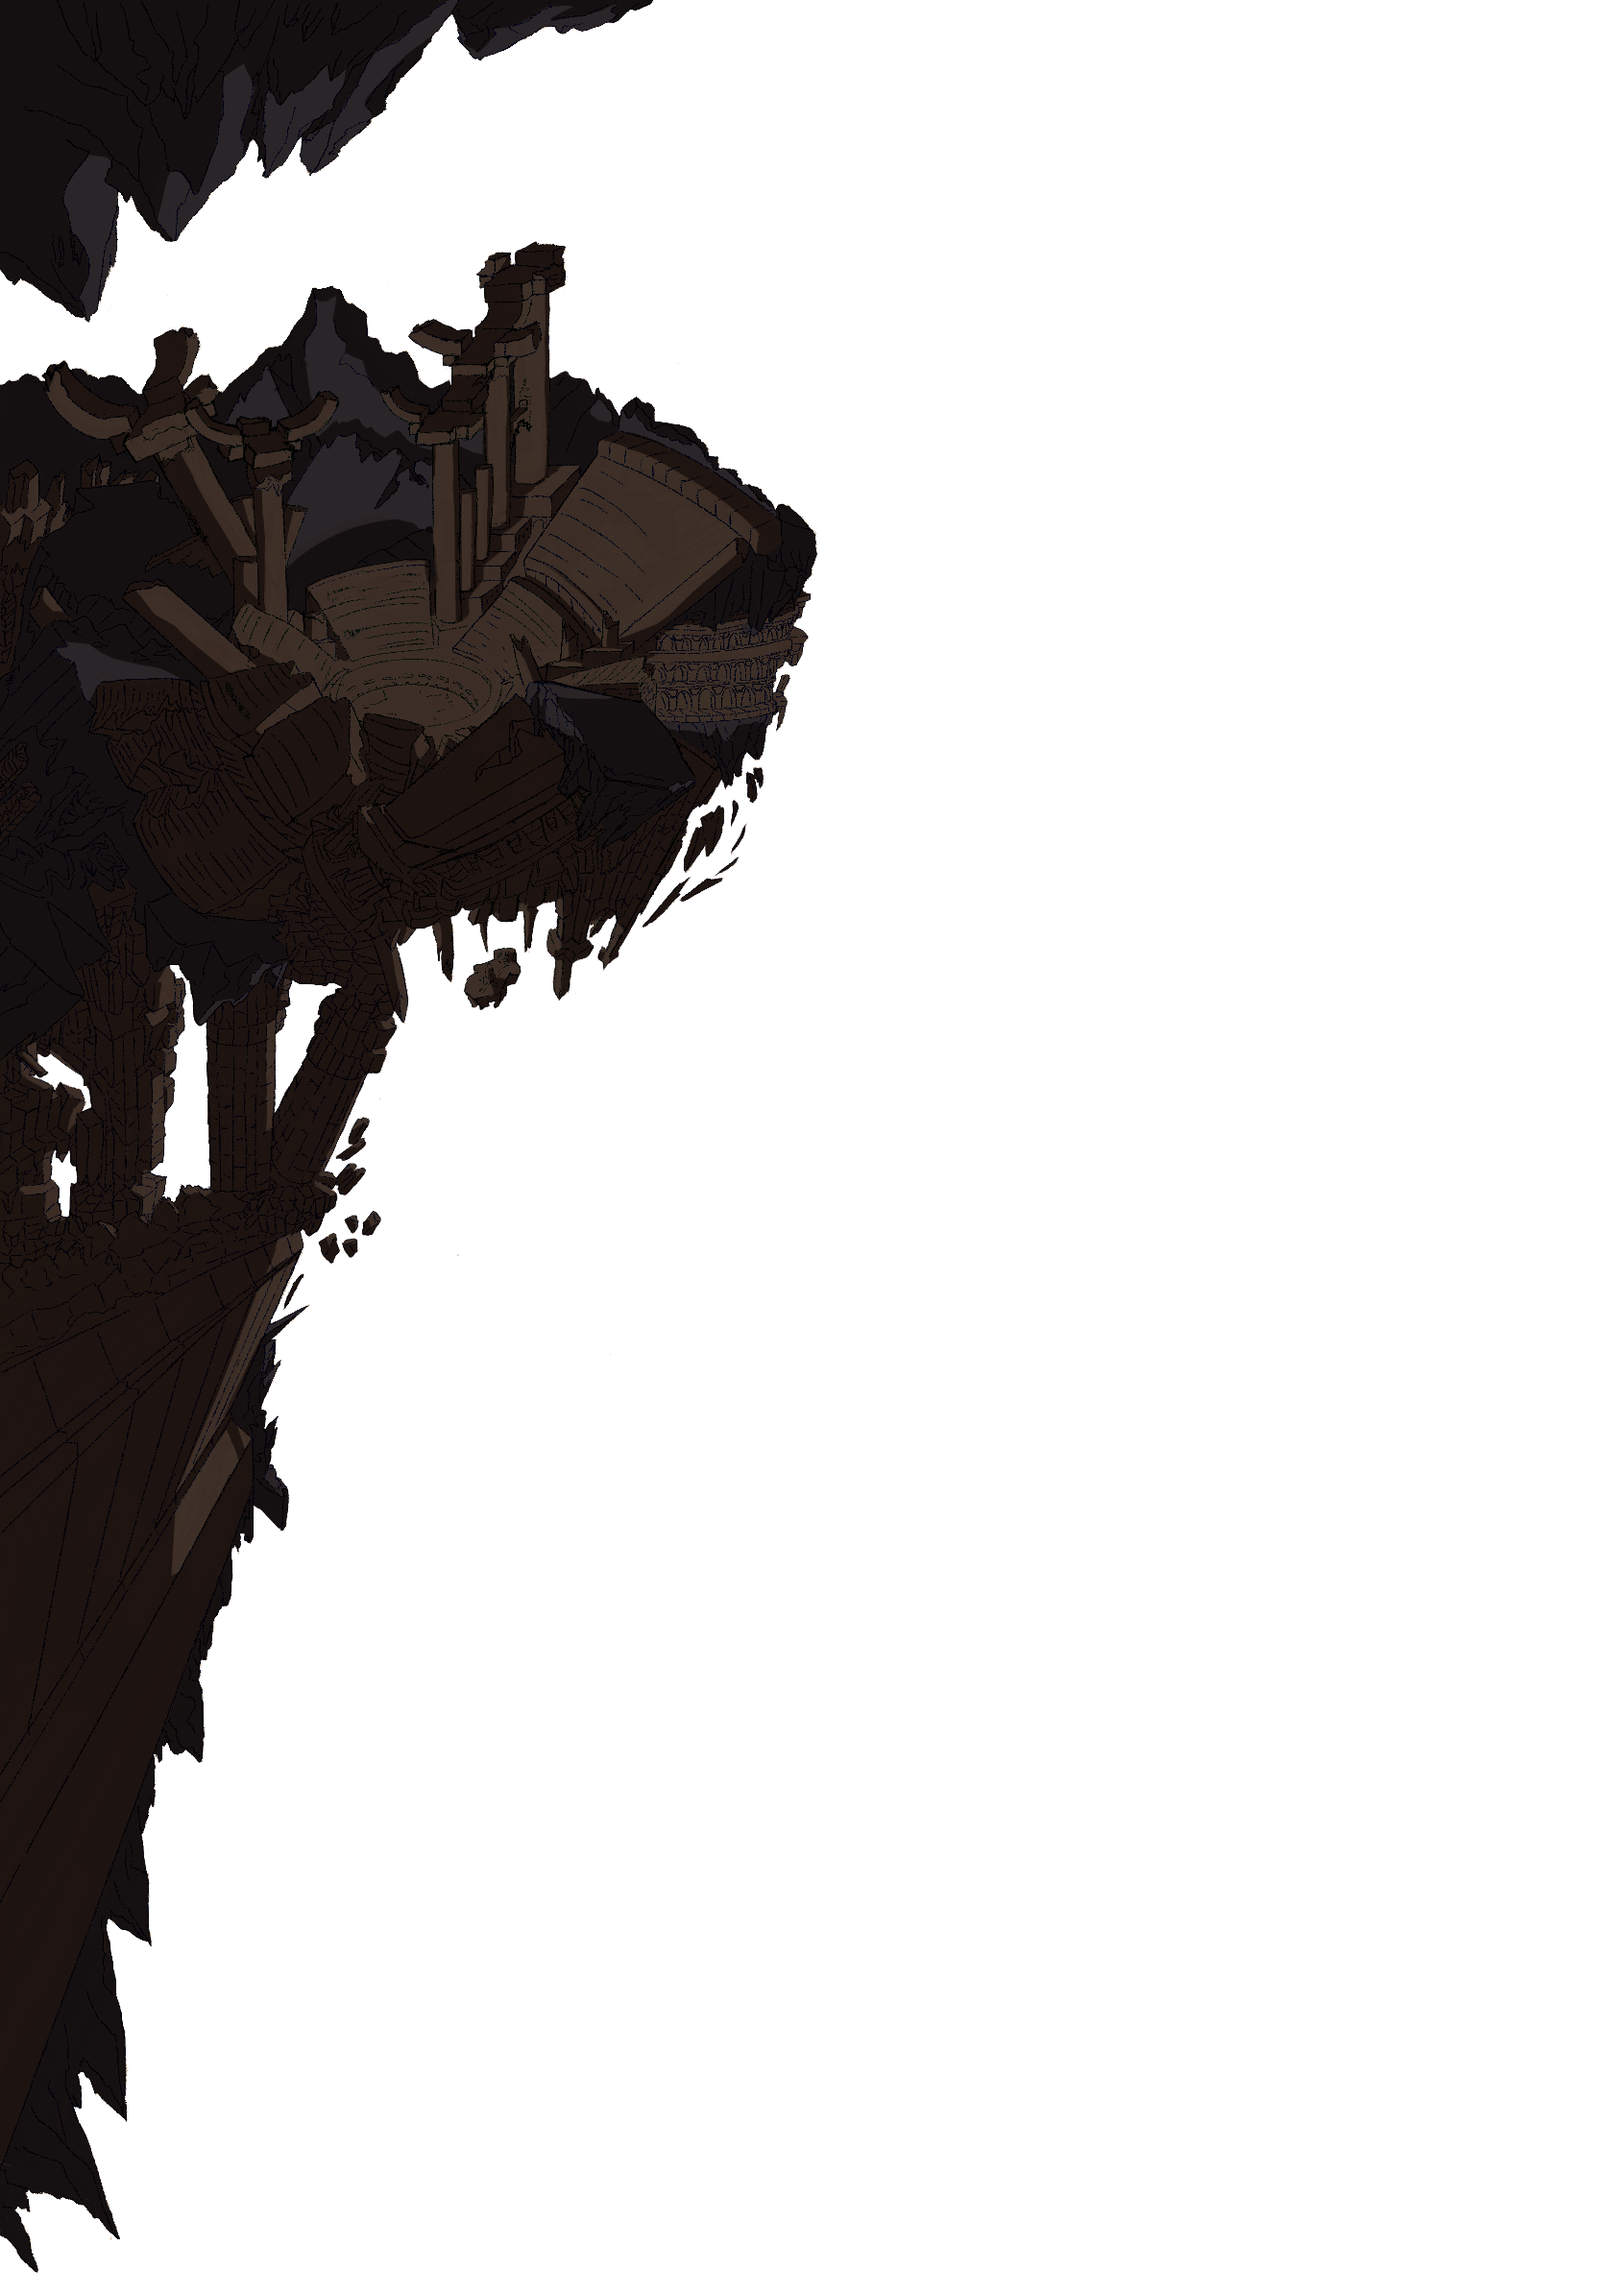
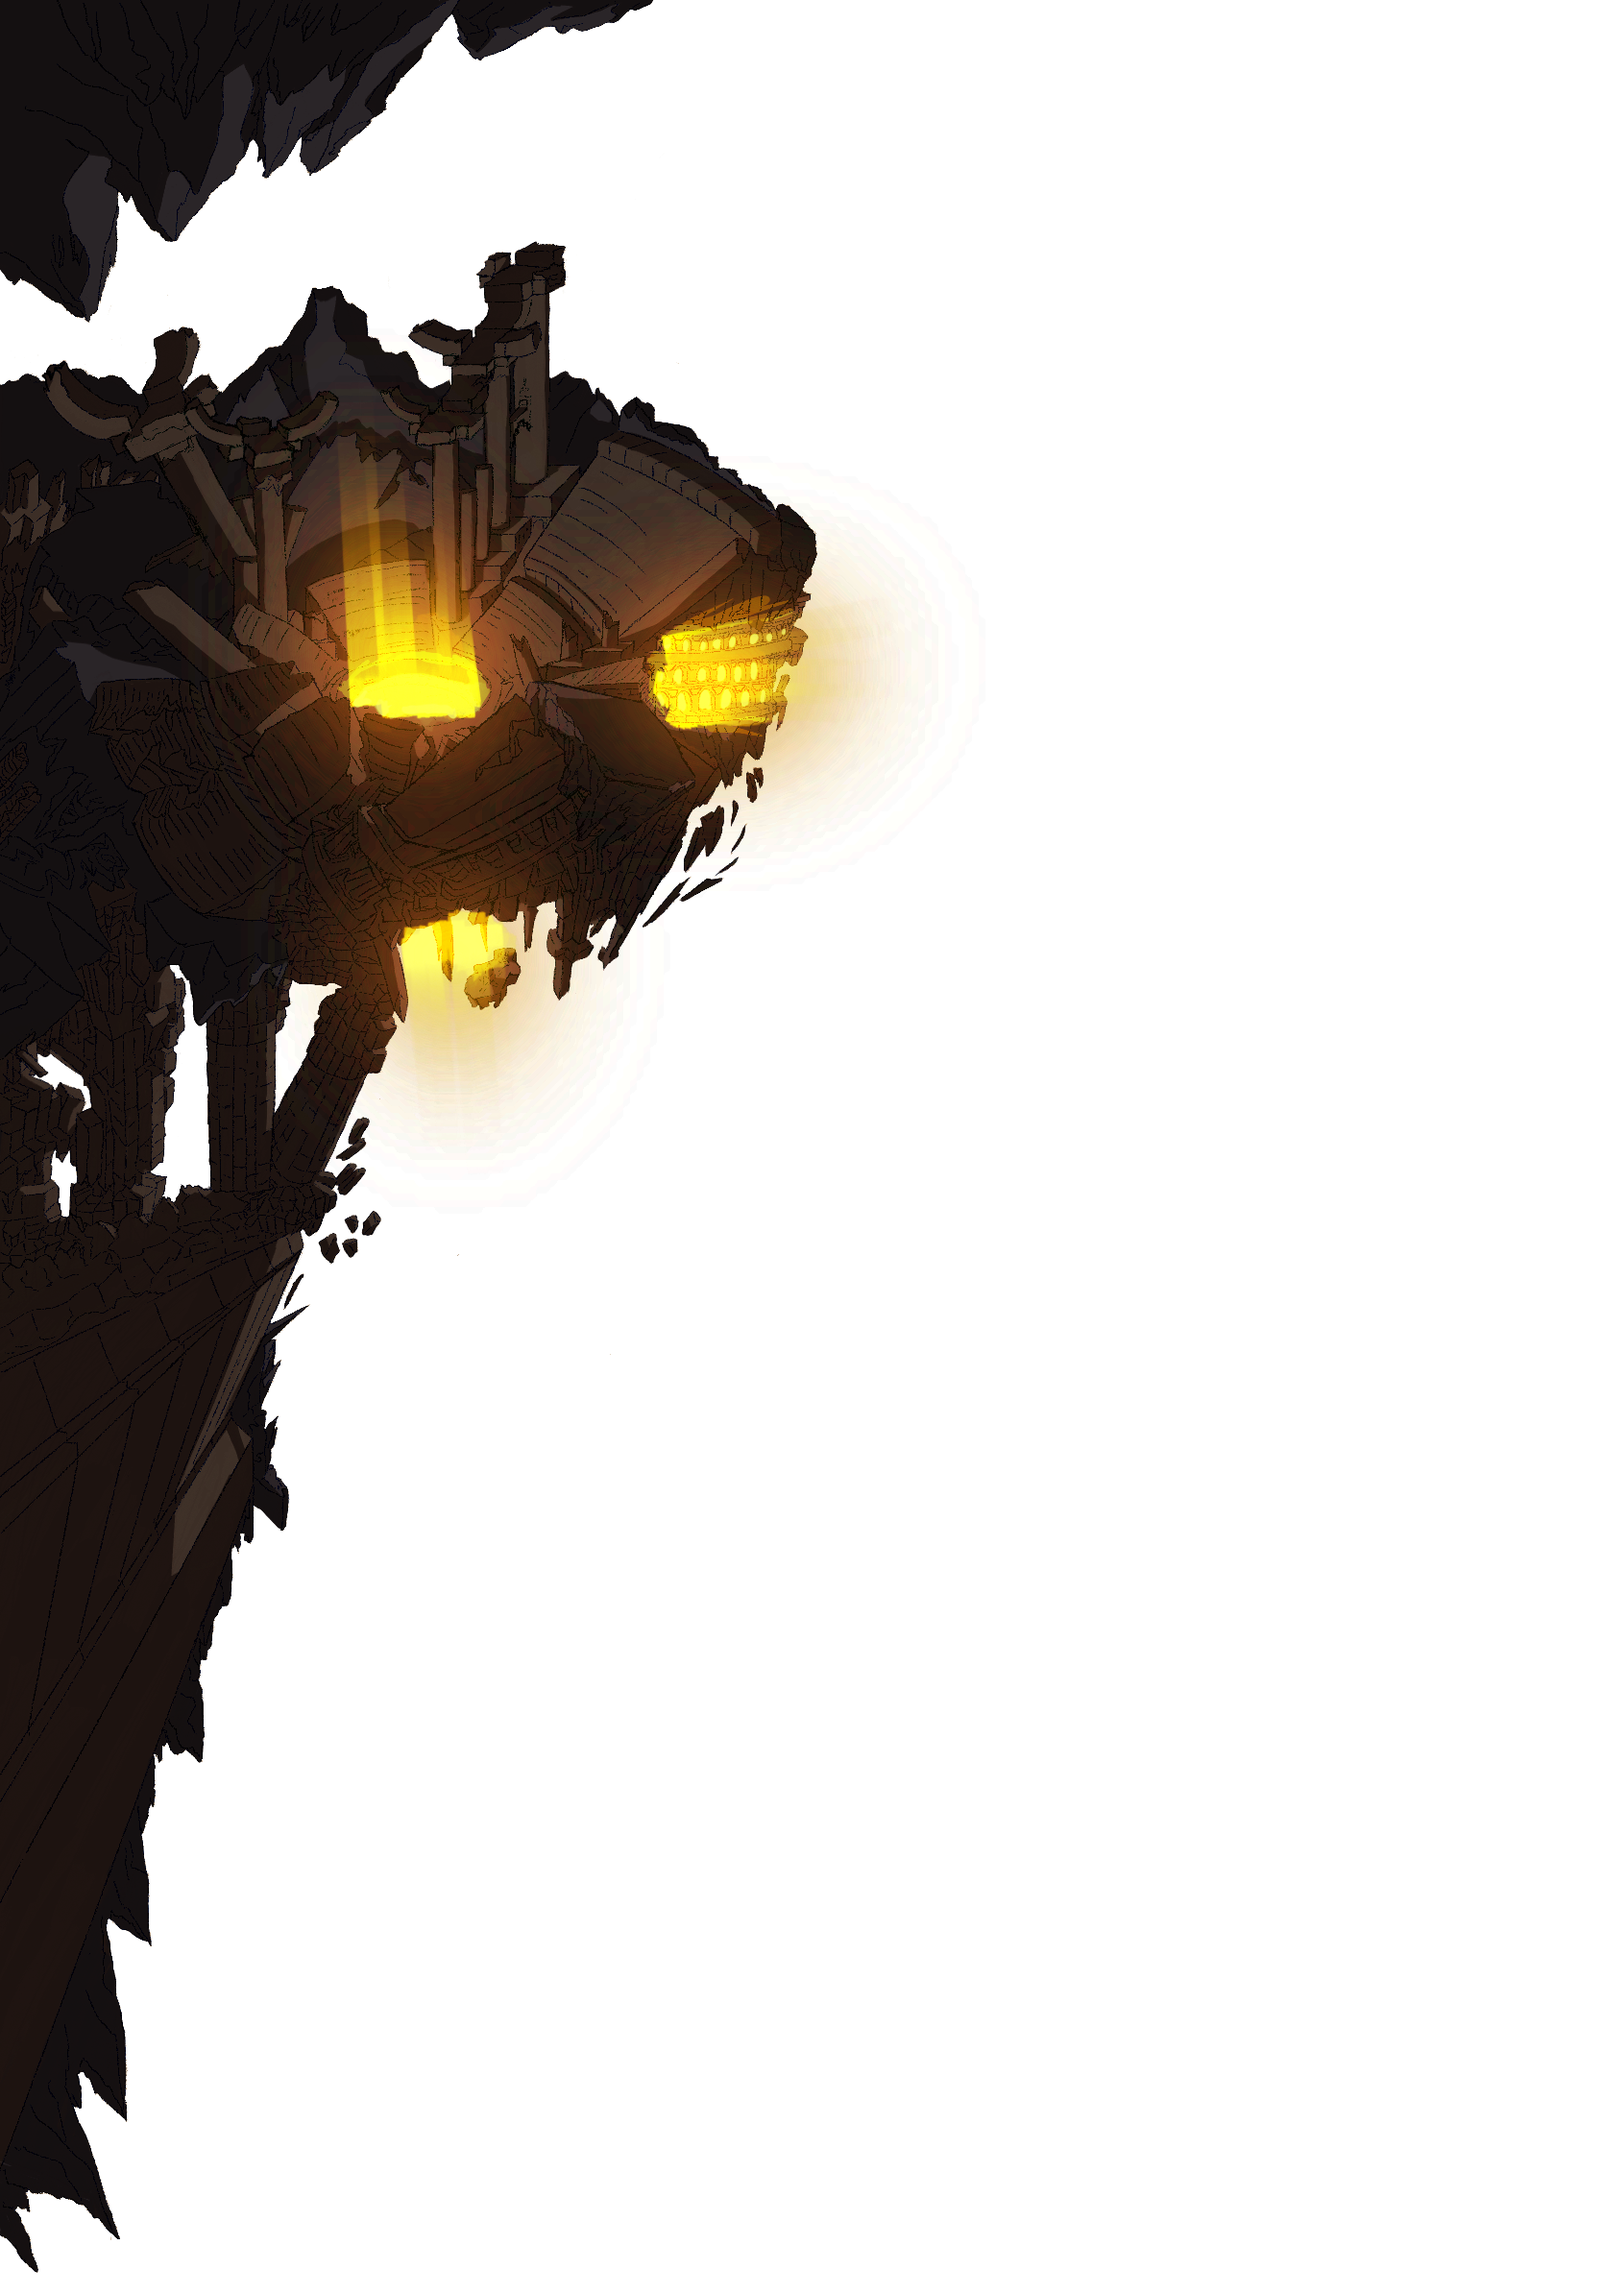
Main menu Ruins moved to different scene

Changed region(s): [[0.1559, 0.1859, 0.5612, 0.4958]]

diff --git a/alien_invasion/views/main_menu/scenes/ruins.py b/alien_invasion/views/main_menu/scenes/ruins.py
@@ -1,0 +1,98 @@
+"""
+Module for main_menu background management.
+"""
+
+from random import randrange
+
+import arcade as arc
+
+from alien_invasion import CONSTANTS
+
+from alien_invasion.utils.animations import SpriteTimed
+
+
+class RuinsBackground(SpriteTimed):
+    def timed_update(self) -> None:
+        self.center_y += randrange(-3, 3)
+
+
+class RuinsCathedral(SpriteTimed):
+    def timed_update(self) -> None:
+        self.center_y += randrange(-2, 2)
+
+
+class RuinsTemple(SpriteTimed):
+    def timed_update(self) -> None:
+        self.center_y += randrange(-2, 2)
+
+
+class Ruins(arc.Scene):
+    """ """
+
+    def __init__(self) -> None:
+        super().__init__()
+
+        self._dir_images = CONSTANTS.DIR_IMAGES.joinpath("menu/foreground")
+        self.__ruins_scaling = 0.26 * CONSTANTS.DISPLAY.SCALE_RELATION
+
+        def init_ruins_bg() -> None:
+            self.ruins_background = RuinsBackground(
+                filename=self._dir_images / "ruins_bg.png",
+                scale=self.__ruins_scaling,
+                timer_interval=6.6,
+            )
+            self.ruins_background.left = 0
+            self.ruins_background.top = CONSTANTS.DISPLAY.HEIGHT
+            self.add_sprite_list(
+                name="ruins_background",
+                sprite_list=self.ruins_background,
+            )
+
+        def init_ruins_cathedral() -> None:
+            self.ruins_cathedral = RuinsCathedral(
+                filename=self._dir_images / "ruins_cathedral.png",
+                scale=self.__ruins_scaling,
+                timer_interval=4.6,
+            )
+            self.ruins_cathedral.bottom = -20 * CONSTANTS.DISPLAY.SCALE_RELATION
+            self.ruins_cathedral.left = 9.8 * CONSTANTS.DISPLAY.SCALE_RELATION
+            self.add_sprite_list(
+                name="ruins_cathedral",
+                sprite_list=self.ruins_cathedral,
+            )
+
+        def init_ruins_temple() -> None:
+            self.ruins_temple = RuinsTemple(
+                filename=self._dir_images / "ruins_temple.png",
+                scale=self.__ruins_scaling,
+                timer_interval=3.4,
+            )
+            self.ruins_temple.bottom = -22 * CONSTANTS.DISPLAY.SCALE_RELATION
+            self.ruins_temple.left = CONSTANTS.DISPLAY.WIDTH / 4.2
+            self.add_sprite_list(
+                name="ruins_temple",
+                sprite_list=self.ruins_temple,
+            )
+
+        def init_ruins_wall() -> None:
+            self.ruins_wall = arc.Sprite(
+                filename=self._dir_images / "ruins_wall.png",
+                scale=self.__ruins_scaling,
+            )
+            self.ruins_wall.top = CONSTANTS.DISPLAY.HEIGHT
+            self.ruins_wall.left = 0
+            self.add_sprite_list(
+                name="ruins_wall",
+                sprite_list=self.ruins_wall,
+            )
+
+        init_ruins_bg()
+        init_ruins_cathedral()
+        init_ruins_wall()
+        init_ruins_temple()
+
+    def on_update(self, delta_time: float = 1 / 60) -> None:
+        self.ruins_background.on_update(delta_time)
+        self.ruins_cathedral.on_update(delta_time)
+        self.ruins_temple.on_update(delta_time)
+        # ruins_wall needs no update since it isn't animated

diff --git a/alien_invasion/views/main_menu/main_menu.py b/alien_invasion/views/main_menu/main_menu.py
@@ -4,7 +4,7 @@ from pyglet.media import Player
 
 from alien_invasion.constants import DIR_MUSIC
 
-from .scenes import Outlines, Obelisk
+from .scenes import Obelisk, Outlines, Ruins
 from .sections import Interface
 
 
@@ -17,8 +17,9 @@ class MainMenu(arc.View):
     def __init__(self) -> None:
         super().__init__()
 
-        self.outlines = Outlines()
         self.obelisk = Obelisk()
+        self.outlines = Outlines()
+        self.ruins = Ruins()
 
         # isolate UI
         self.human_interface = Interface(
@@ -57,11 +58,13 @@ class MainMenu(arc.View):
     def on_update(self, delta_time: float):
         self.obelisk.on_update(delta_time)
         self.outlines.on_update(delta_time)
+        self.ruins.on_update(delta_time)
 
     def on_draw(self) -> None:
         arc.start_render()
         self.obelisk.draw()
         self.outlines.draw()
+        self.ruins.draw()
         self.human_interface.draw()
 
     def _toggle_mute_main_theme(self) -> None:

diff --git a/alien_invasion/utils/animations/sprite_timed.py b/alien_invasion/utils/animations/sprite_timed.py
@@ -1,0 +1,29 @@
+from pathlib import Path
+from abc import ABC
+
+import arcade as arc
+
+
+class SpriteTimed(arc.Sprite, ABC):
+    def __init__(
+        self,
+        filename: Path,
+        scale: float,
+        timer_interval: float = 1.0,
+        timer: float = 0.0,
+    ) -> None:
+        """Sprite with built-in timer"""
+        super().__init__(filename, scale)
+
+        self._timer = timer
+        self._timer_interval = timer_interval
+
+    def on_update(self, delta_time: float = 1 / 60) -> None:
+        self._timer += delta_time
+        if self._timer > self._timer_interval:
+            self._timer = 0.0
+            self.timed_update()
+        return super().on_update(delta_time)
+
+    def timed_update(self) -> None:
+        raise NotImplementedError

diff --git a/alien_invasion/views/main_menu/scenes/outlines.py b/alien_invasion/views/main_menu/scenes/outlines.py
@@ -29,7 +29,7 @@ class Outlines(arc.Scene):
         # so movement can be done up or down
         self.movement_direction = 1
         # step in pixels for every block mvement per interval
-        self.vertical_movement_step = 4 * CONSTANTS.DISPLAY.SCALE_RELATION
+        self.vertical_movement_step = 3.3 * CONSTANTS.DISPLAY.SCALE_RELATION
 
         self.position_top_wide = CONSTANTS.DISPLAY.HEIGHT - 20
         self.position_top_vertical_middle = CONSTANTS.DISPLAY.HEIGHT * 6 / 7 + 15

diff --git a/alien_invasion/views/main_menu/scenes/__init__.py b/alien_invasion/views/main_menu/scenes/__init__.py
@@ -1,2 +1,3 @@
-from .outlines import Outlines
 from .obelisk import Obelisk
+from .outlines import Outlines
+from .ruins import Ruins

diff --git a/alien_invasion/utils/animations/__init__.py b/alien_invasion/utils/animations/__init__.py
@@ -1,0 +1,1 @@
+from .sprite_timed import SpriteTimed
